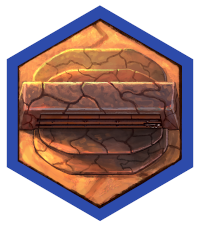
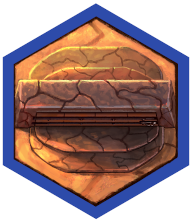
Allows rotating overlays that span multiple cells to be added

diff --git a/static/scss/main.scss b/static/scss/main.scss
@@ -172,6 +172,14 @@ $hexRotation: 60deg;
                     height: 100%;
                     position:relative;
                     clip-path:inherit;
+
+                    &.diagonal-right {
+                        transform: rotate(120deg);
+                    }
+
+                    &.diagonal-left {
+                        transform: rotate(60deg);
+                    }
                 }
             }
         }
